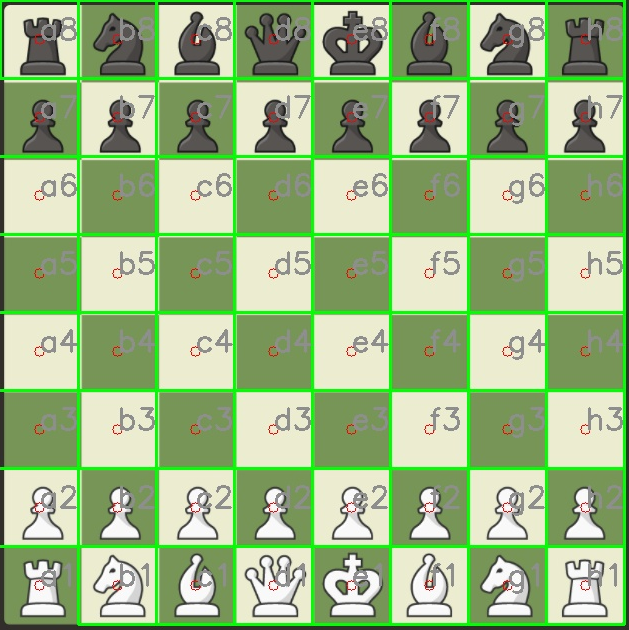
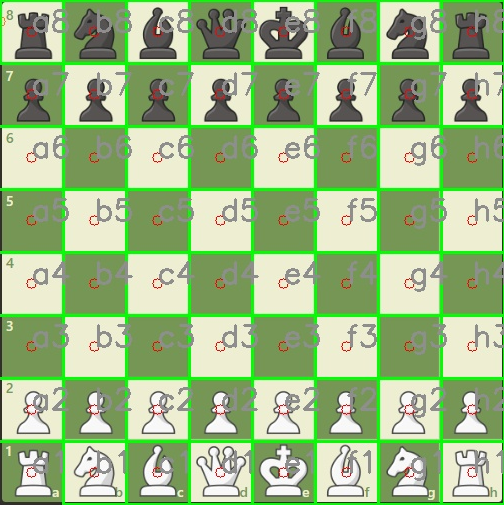
update

diff --git a/bot/Manager.py b/bot/Manager.py
@@ -1,27 +1,32 @@
 import time
 import pyautogui
 
+
+from threading import Thread
 from PyQt5 import QtGui, uic
 from PyQt5.QtWidgets import QApplication, QMainWindow
 
 from .ImageDetection import ImageDetection
 from .ChessBoard import ChessBoard
+from .StockfishManager import StockfishManager
+from .config import Config
+from .MouseControl import MouseControl
 
 class Manager(QMainWindow):
 
     def __init__(self):
         super(Manager, self).__init__()
-
+        self.running = False
+        self.games_played = 0
         self.path = "pictures/"
+        self.config = Config()
 
-        self.label_won_hidden = True
-        self.label_lost_hidden = True
         self.started = False
 
         uic.loadUi("gui/main.ui", self)
 
-        self.label_won.setHidden(self.label_won_hidden)
-        self.label_lost.setHidden(self.label_lost_hidden)
+        self.label_won.setHidden(True)
+        self.label_lost.setHidden(True)
 
         self.show()
         self.b_start.setEnabled(False)
@@ -31,21 +36,114 @@ class Manager(QMainWindow):
         self.b_Settings.clicked.connect(self.show_settings)
 
 
+
     def start_bot(self):
+        self.thread = Thread(target = self.run_bot, args = [])
+        self.thread.start()
+        self.thread.join()
+    def run_bot(self):
+
+        if self.games_played > 1:
+            self.set_won(False)
+            self.set_lost(False)
+        self.games_played += 1
         self.started = True
         self.b_Settings.setEnabled(False)
         screenshot = pyautogui.screenshot()
         screenshot.save(f"{self.path}screen.png")
-        self.field_Cords, self.myturn = self.imageDet.calculate_field_cords(self.board_coordinates[0], self.field_height, self.field_width, self)
+        imageDet = ImageDetection(self)
+        self.field_Cords, self.myturn = imageDet.calculate_field_cords(self.board_coordinates[0], self.field_height, self.field_width, self)
+        chessBoard = ChessBoard()
+        stockfish = StockfishManager(self.config.stockfish_path_name)
+        game_running = True
+        bot_move = None
+        while game_running:
+            if chessBoard.getBoard().is_checkmate():
+                game_running = False
+                self.set_won(True) if not self.myturn else self.show_lost(True)
+                break
+            if self.myturn:
+                bot_move = self.bot_Turn(stockfish, chessBoard)
+            else:
+                self.opponent_Turn(bot_move, chessBoard)
+
+            #screenshot = pyautogui.screenshot()
+            #screenshot.save(f"{self.path}turn_screen.png")
+            #imageDet.saveResizedImag(f"{self.path}turn_screen.png", 
+            #       self.board_coordinates[0][1], self.board_coordinates[0][0], self.board_coordinates[0][1]*self.board_height, self.board_coordinates[0][0]*self.board_width)
+            #self.show_image(f"{self.path}turn_screen.png")
+        self.thread = None
+
     
+    def bot_Turn(self, stockfish: StockfishManager, chessBoard):
+        best_move = stockfish.get_best_move(chessBoard.getBoard())
+        chessBoard.makeMove(best_move)
+        mouseContr = MouseControl()
+        mouseContr.mousePos(
+            self.field_Cords[best_move[:2]][0], self.field_Cords[best_move[:2]][1])
+        mouseContr.mouseClick()
+        mouseContr.mousePos(
+            self.field_Cords[best_move[2:4]][0], self.field_Cords[best_move[2:4]][1])
+        mouseContr.mouseClick()
+        self.myturn = False
+
+    def opponent_Turn(self, bot_move, chessBoard):
+        if bot_move is None:
+            bot_move = ""
+        fmove = False
+        smove = False
+        screenshot = pyautogui.screenshot()
+        screenshot.save("pictures/turn_screen.png")
+        imagDet = ImageDetection(self)
+        screen = imagDet.loadImag("pictures/turn_screen.png")
+        
+        for field in self.field_Cords:
+            x = self.field_Cords[field][0]
+            y = self.field_Cords[field][1]
+            x2 = int(x+(self.field_width/2)-10)
+            y2 = int(y+(self.field_height/2)-10)
+            
+            if (screen[y2, x2][0] <= 115 and
+                screen[y2, x2][1] >= 235 and
+                    screen[y2, x2][2] >= 235):
+                yellow_white = [screen[y2, x2][0],
+                                screen[y2, x2][1], screen[y2, x2][2]]
+                if list(screen[y+10, x]) == yellow_white:
+                    fmove = field
+                else:
+                    smove = field
+            
+            if (screen[y2, x2][0] <= 55 and
+                screen[y2, x2][0] >= 34 and
+                screen[y2, x2][1] <= 215 and
+                screen[y2, x2][1] >= 193 and
+                screen[y2, x2][2] <= 198 and
+                    screen[y2, x2][2] >= 177):
+                yellow_green = [screen[y2, x2][0],
+                                screen[y2, x2][1], screen[y2, x2][2]]
+                if list(screen[y+10, x]) == yellow_green:
+                    fmove = field
+                else:
+                    smove = field
+
+        if fmove and smove and str(fmove+smove) not in bot_move:
+            try:
+                chessBoard.makeMove(f"{fmove}{smove}")
+                self.myturn = True
+                print()
+                print(f"\nOpponent move: {fmove}{smove}")
+                print(chessBoard.getBoard())
+            except ValueError:
+                time.sleep(1)
+                return
     def detect_board(self):
         screenshot = pyautogui.screenshot()
         screenshot.save(f"{self.path}screen.png")
 
-        self.imageDet = ImageDetection(self)
+        imageDet = ImageDetection(self)
         
         try:
-            boardFound, self.board_coordinates, self.field_height, self.field_width, self.board_height, self.board_width = self.imageDet.searchBoard(
+            boardFound, self.board_coordinates, self.field_height, self.field_width, self.board_height, self.board_width = imageDet.searchBoard(
                 f"{self.path}screen.png", self)
         except TypeError as e:
             boardFound = False
@@ -78,14 +176,12 @@ class Manager(QMainWindow):
     def progressBarUpdate(self, value):
         self.progressBar.setValue(value)
 
-    def show_won(self):
-        self.label_won_hidden = not self.label_won_hidden
-        self.label_won.setHidden(self.label_won_hidden)
+    def set_won(self, show):
+        self.label_won.setHidden(not show)
 
 
-    def show_lost(self):
-        self.label_lost_hidden = not self.label_lost_hidden
-        self.label_lost.setHidden(self.label_lost_hidden)
+    def set_lost(self, show):
+        self.label_lost.setHidden(not show)
 
 
 
@@ -96,5 +192,7 @@ def main():
     app = QApplication([])
     window = Manager()
     app.exec_()
+
+    
 
 

diff --git a/bot/ImageDetection.py b/bot/ImageDetection.py
@@ -19,7 +19,7 @@ class ImageDetection:
 
         maxValue1 = 0
         dots = "."
-        threshold = 0.8
+        threshold = 0.9
         print("Searching board", end="\r")
         for c in range(100):
             manager.progressBarUpdate(c)
@@ -56,7 +56,12 @@ class ImageDetection:
         abc = "abcdefgh"
         oneTwothree = "87654321"
         myturn = True
-        if screenimg[start_X, top_left[1]][0] > 200 and screenimg[start_X, top_left[1]][1] > 200 and screenimg[start_X, top_left[1]][2] > 200:
+        print(screenimg[top_left[1]+int(field_h/2-10), start_X][0], screenimg[top_left[1]+int(field_h/2-10),
+              start_X][1], screenimg[top_left[1]+int(field_h/2-10), start_X][2])
+        cv.circle(
+            screenimg, (start_X, top_left[1]+int(field_h/2-10)), 5, color=(35, 120, 255))
+        
+        if screenimg[top_left[1]+int(field_h/2-10), start_X][0] > 200 and screenimg[top_left[1]+int(field_h/2-10), start_X][1] > 200 and screenimg[top_left[1]+int(field_h/2-10), start_X][2] > 200:
             oneTwothree = "12345678"
             abc = "hgfedcba"
             myturn = False
@@ -96,5 +101,14 @@ class ImageDetection:
         screenimg = cv.imread("board_result.jpg")
         cv.imwrite("pictures/board_detection.png",
                    screenimg[start_Y:int(start_Y+(field_h*8)), start_X:int(start_X+(field_w*8))])
-        manager.show_image("pictures/board_detection.png")
+        #manager.show_image("pictures/board_detection.png")
         return fields_Cords, myturn
+
+    def saveResizedImag(self, img_path, x1, y1, x2, y2):
+        img = cv.imread(img_path)
+        cv.imwrite(img_path,
+                   img[y1:y2, x1:x2])
+
+    def loadImag(self, img_path):
+        return cv.imread(img_path)
+        

diff --git a/bot/StockfishManager.py b/bot/StockfishManager.py
@@ -1,0 +1,12 @@
+from stockfishpy.stockfishpy import *
+
+class StockfishManager:
+
+    def __init__(self, stockfish_path_name):
+        self.chessEngine = Engine(stockfish_path_name, param={
+            'Threads': 2, 'Ponder': None})
+
+    def get_best_move(self, board):
+        self.chessEngine.ucinewgame()
+        self.chessEngine.setposition(board.fen())
+        return self.chessEngine.bestmove()['bestmove']

diff --git a/bot/MouseControl.py b/bot/MouseControl.py
@@ -1,0 +1,15 @@
+import win32api, win32con
+import time
+
+class MouseControl:
+
+    def mousePos(self, x, y):
+        try:
+            win32api.SetCursorPos((x, y))
+        except Exception as e:
+            print(e)
+
+    def mouseClick(self):
+        win32api.mouse_event(win32con.MOUSEEVENTF_LEFTDOWN, 0, 0)
+        time.sleep(0.2)
+        win32api.mouse_event(win32con.MOUSEEVENTF_LEFTUP, 0, 0)

diff --git a/bot/config.py b/bot/config.py
@@ -1,0 +1,7 @@
+import configparser
+
+class Config:
+    def __init__(self):
+        config = configparser.ConfigParser()
+        config.read("config.cfg")
+        self.stockfish_path_name = str(config.get("stockfish", "path"))

diff --git a/bot/ChessBoard.py b/bot/ChessBoard.py
@@ -3,6 +3,7 @@ import chess
 class ChessBoard:
     def __init__(self):
         self.board = chess.Board()
+        
 
     def getBoard(self):
         return self.board  
